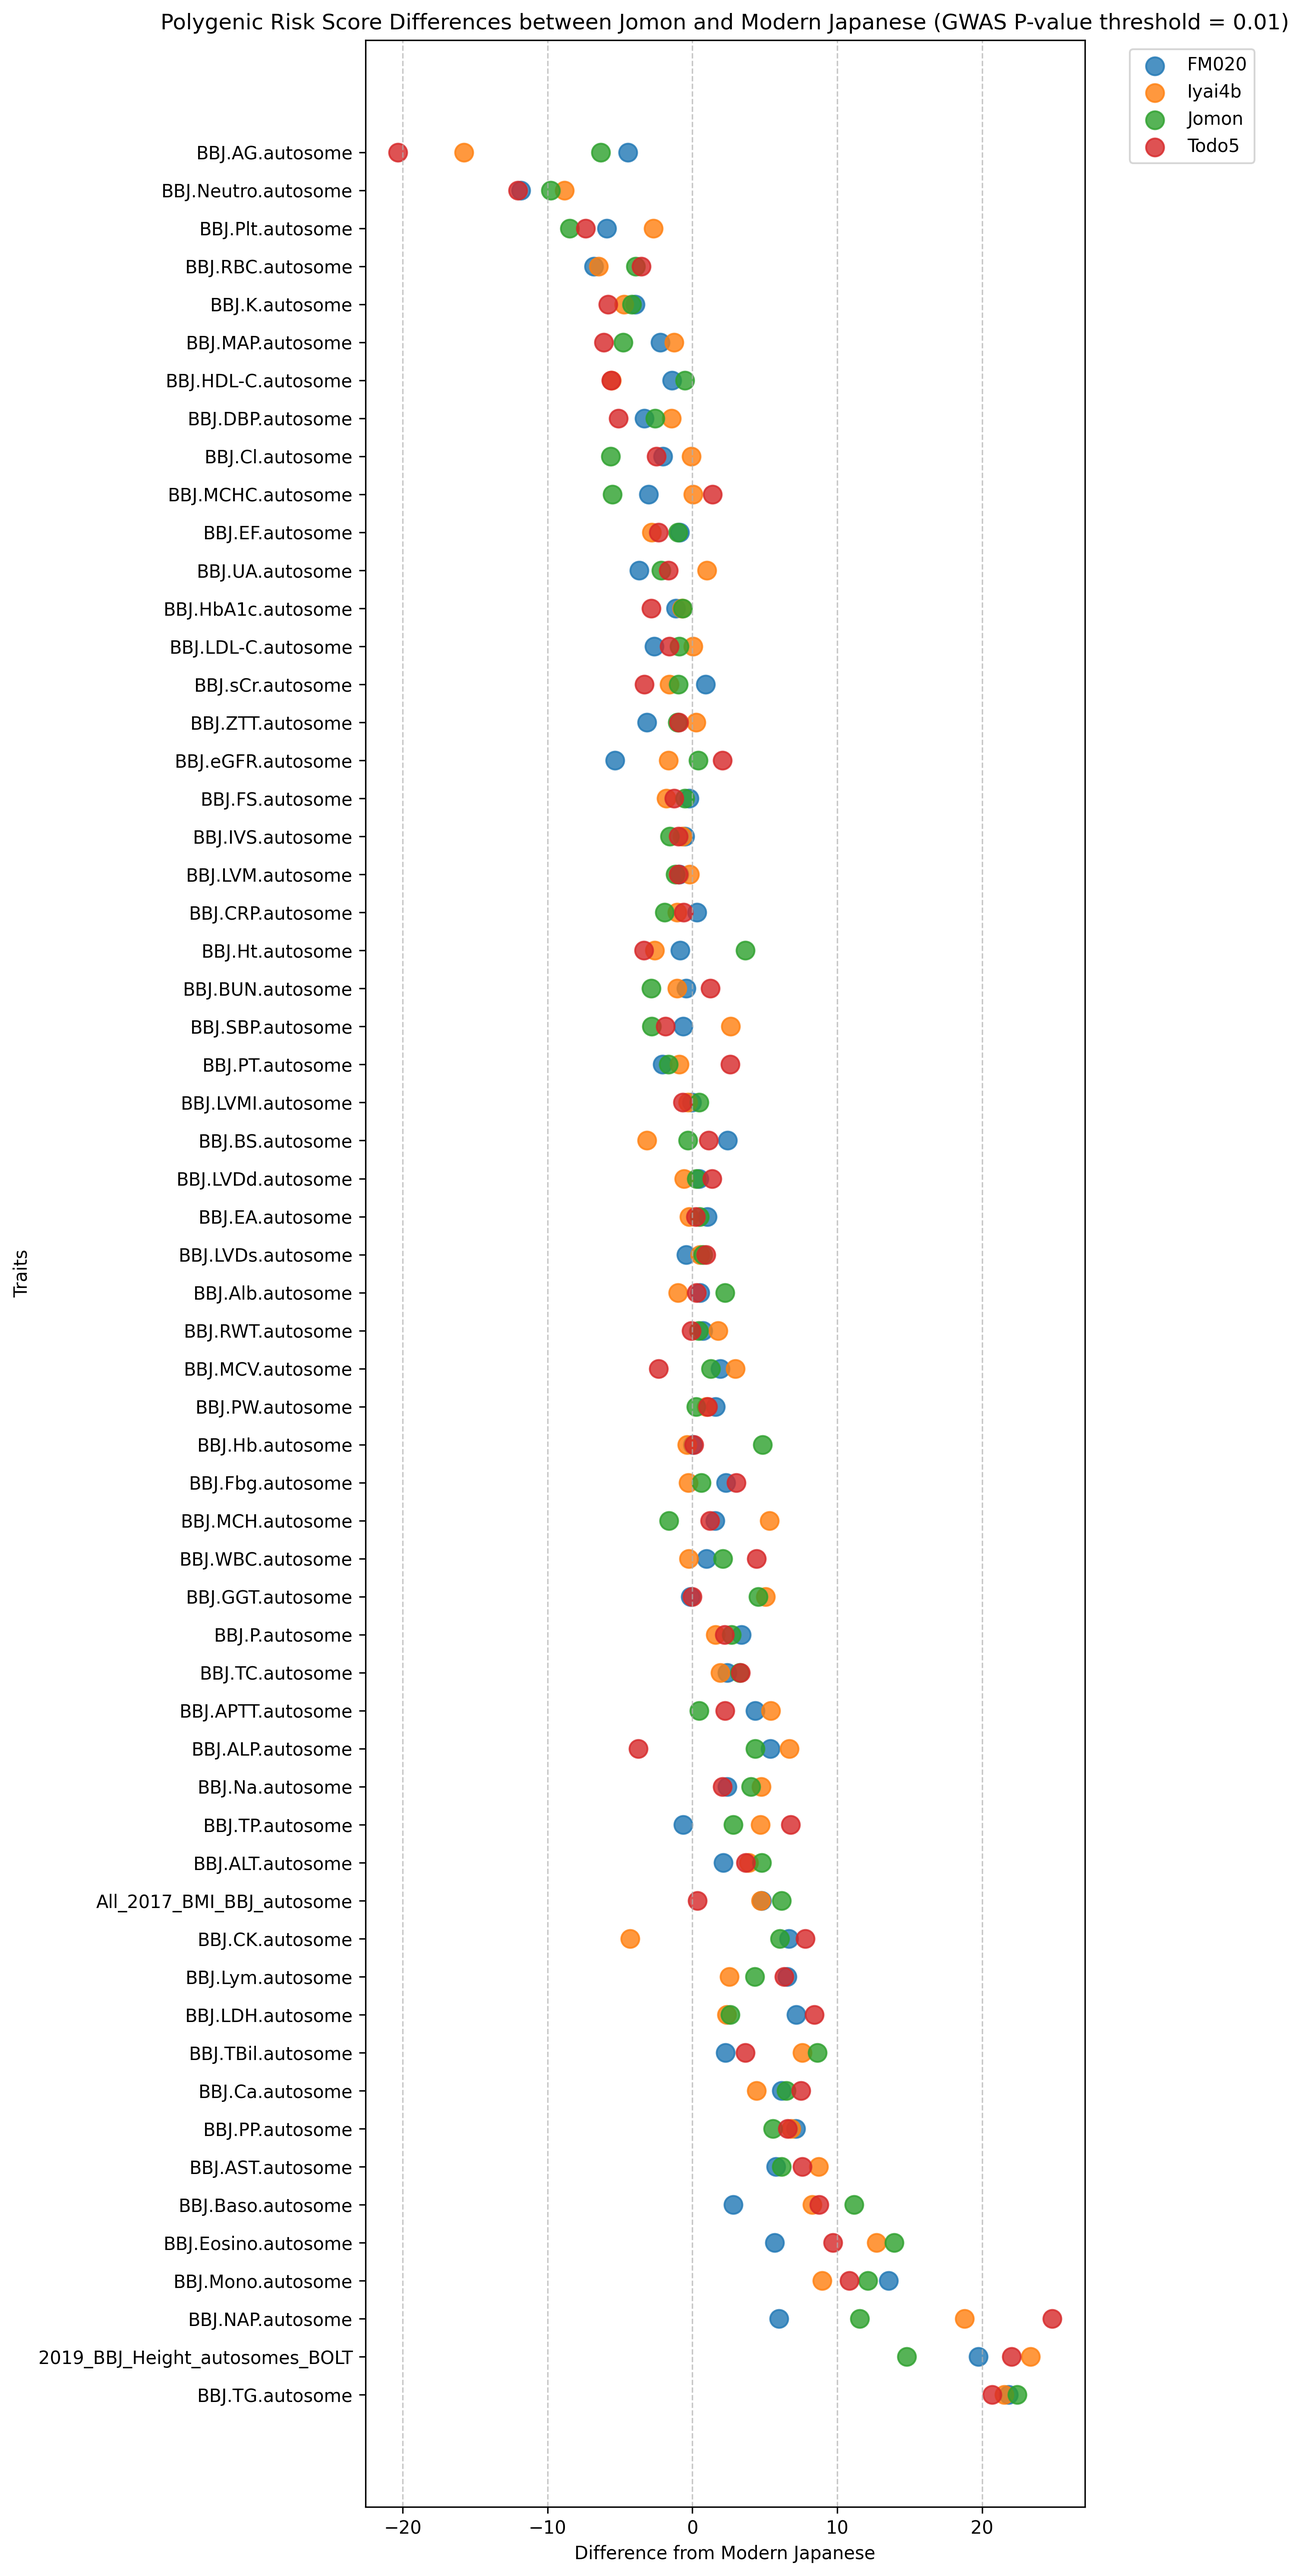
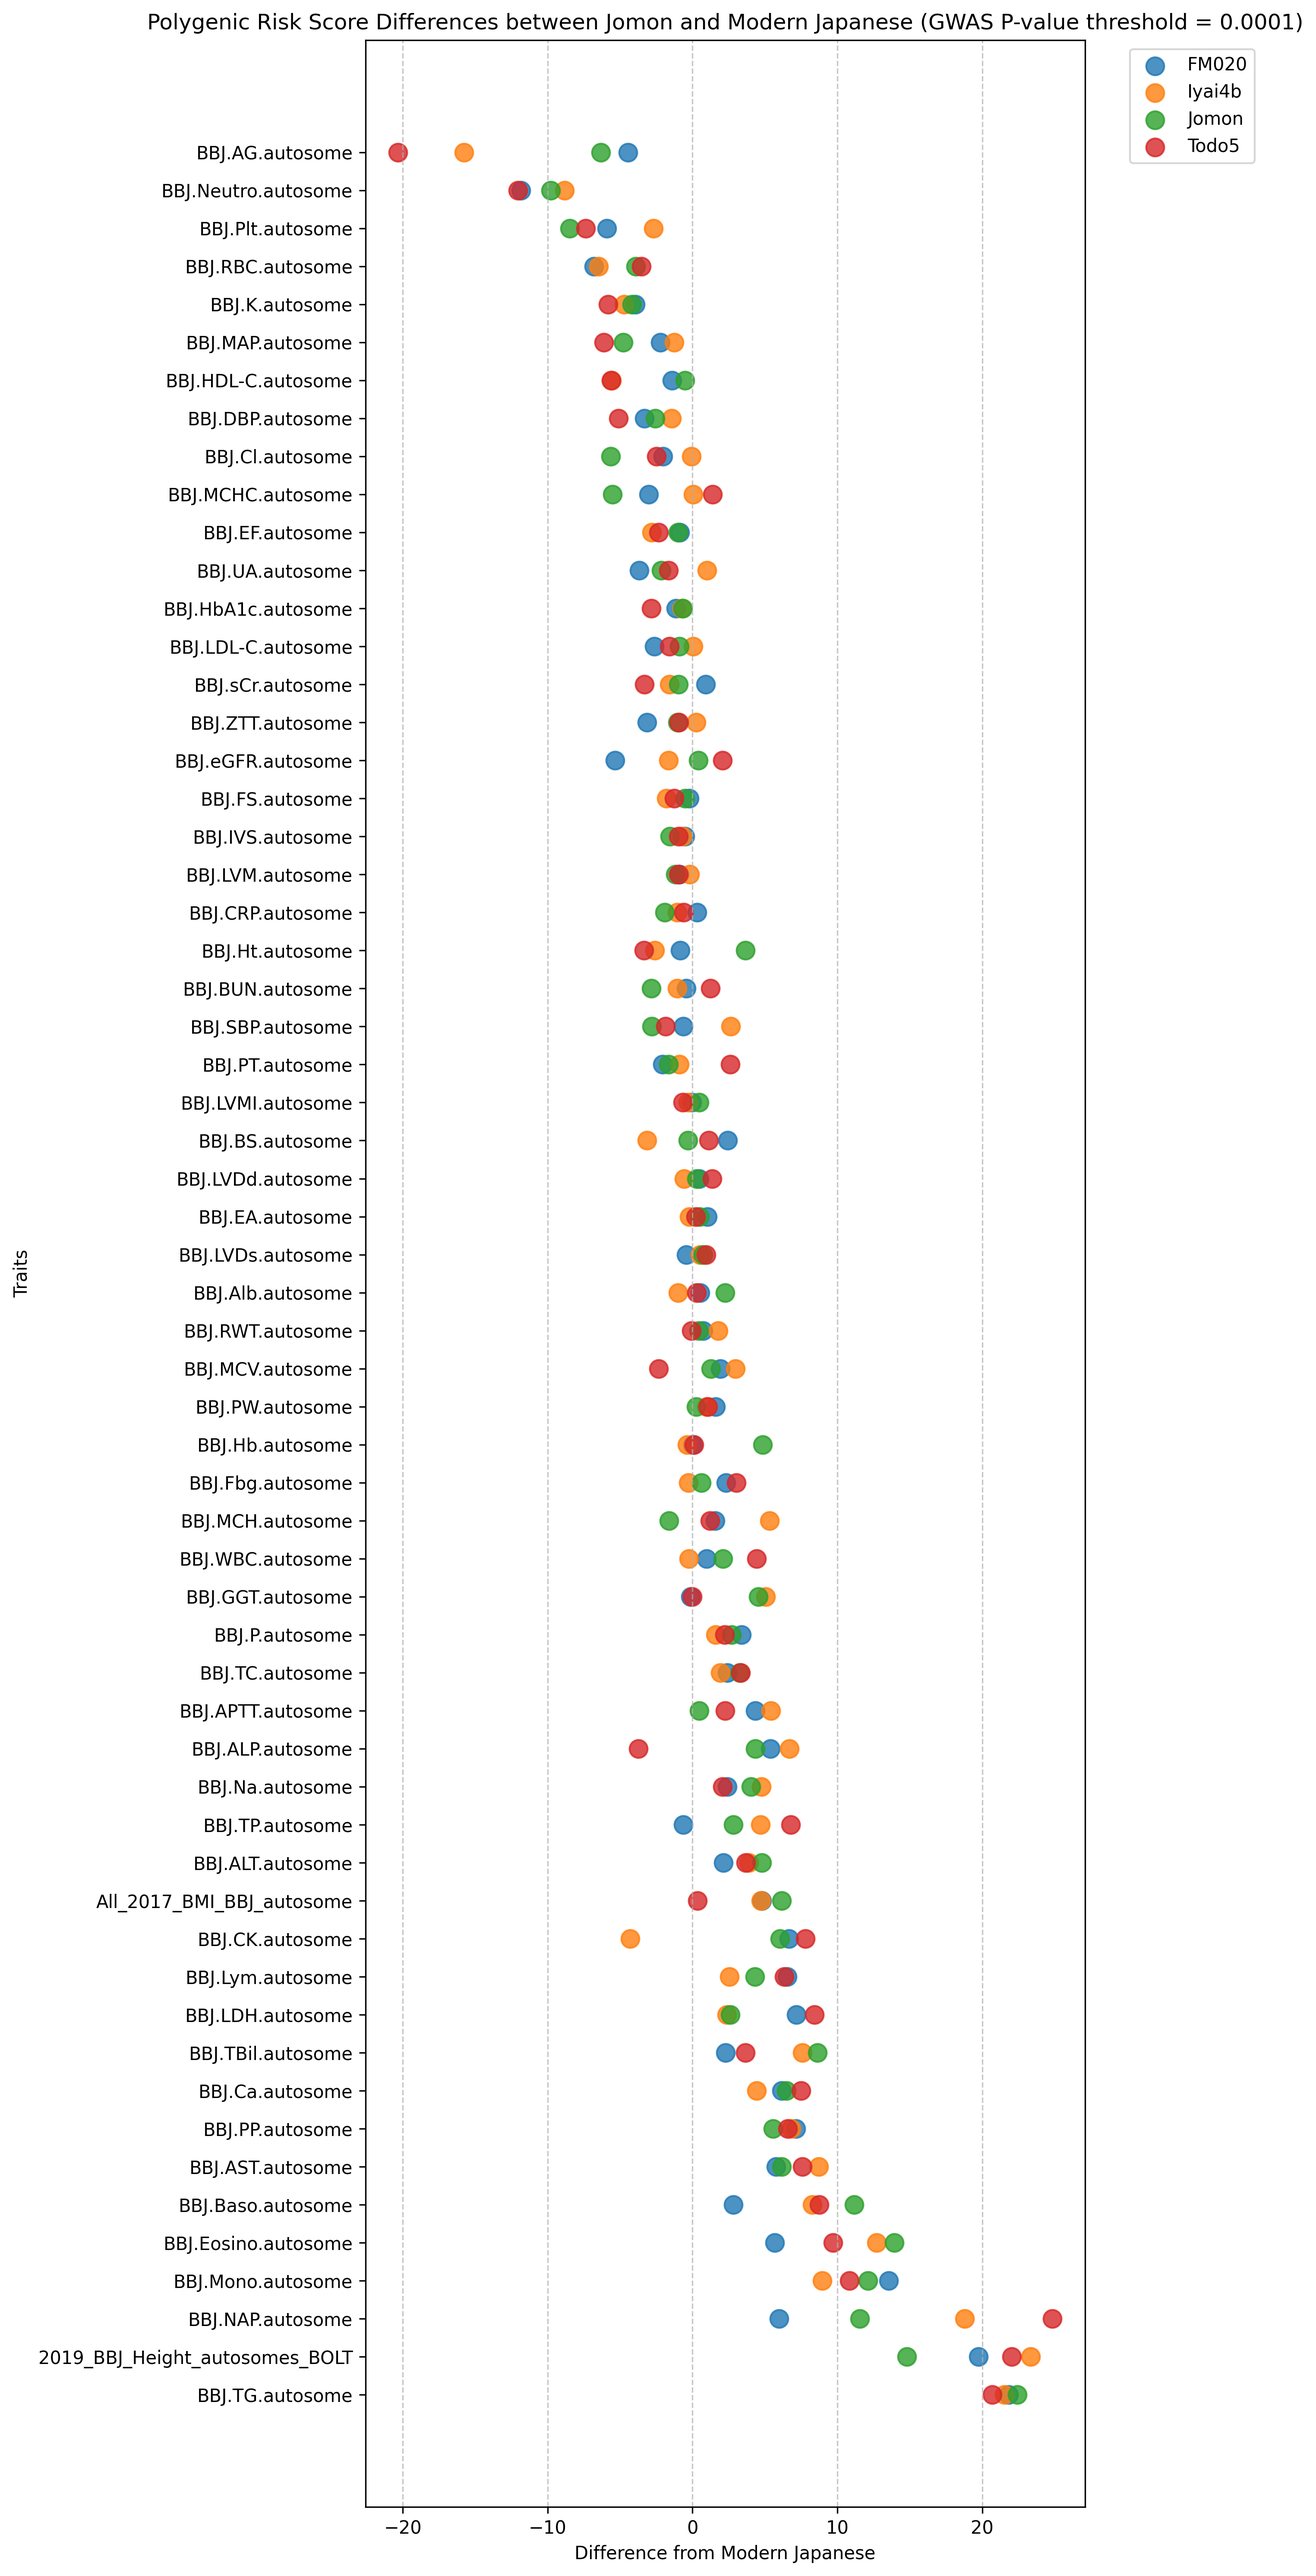
a

diff --git a/6-PRS/plot.py b/6-PRS/plot.py
@@ -1,7 +1,7 @@
 import pandas as pd
 import matplotlib.pyplot as plt
 
-threshold = 0.0001
+threshold = input("Please input the GWAS P-value threshold: ")  # 0.000
 # データの読み込み
 data = pd.read_csv(f"/home/mkato/hdd_data/data/PS/PRS_scores/PRS_scores_p{threshold}.txt", sep="\t", comment="#", index_col=0)
 
@@ -29,7 +29,7 @@ ax.set_yticklabels(sorted_traits)
 # 軸ラベルとタイトルの設定
 ax.set_xlabel("Difference from Modern Japanese")
 ax.set_ylabel("Traits")
-ax.set_title("Polygenic Risk Score Differences between Jomon and Modern Japanese (GWAS P-value threshold = 0.01)")
+ax.set_title(f"Polygenic Risk Score Differences between Jomon and Modern Japanese (GWAS P-value threshold = {threshold})")
 
 # 凡例の設定
 ax.legend(bbox_to_anchor=(1.05, 1), loc="upper left")
